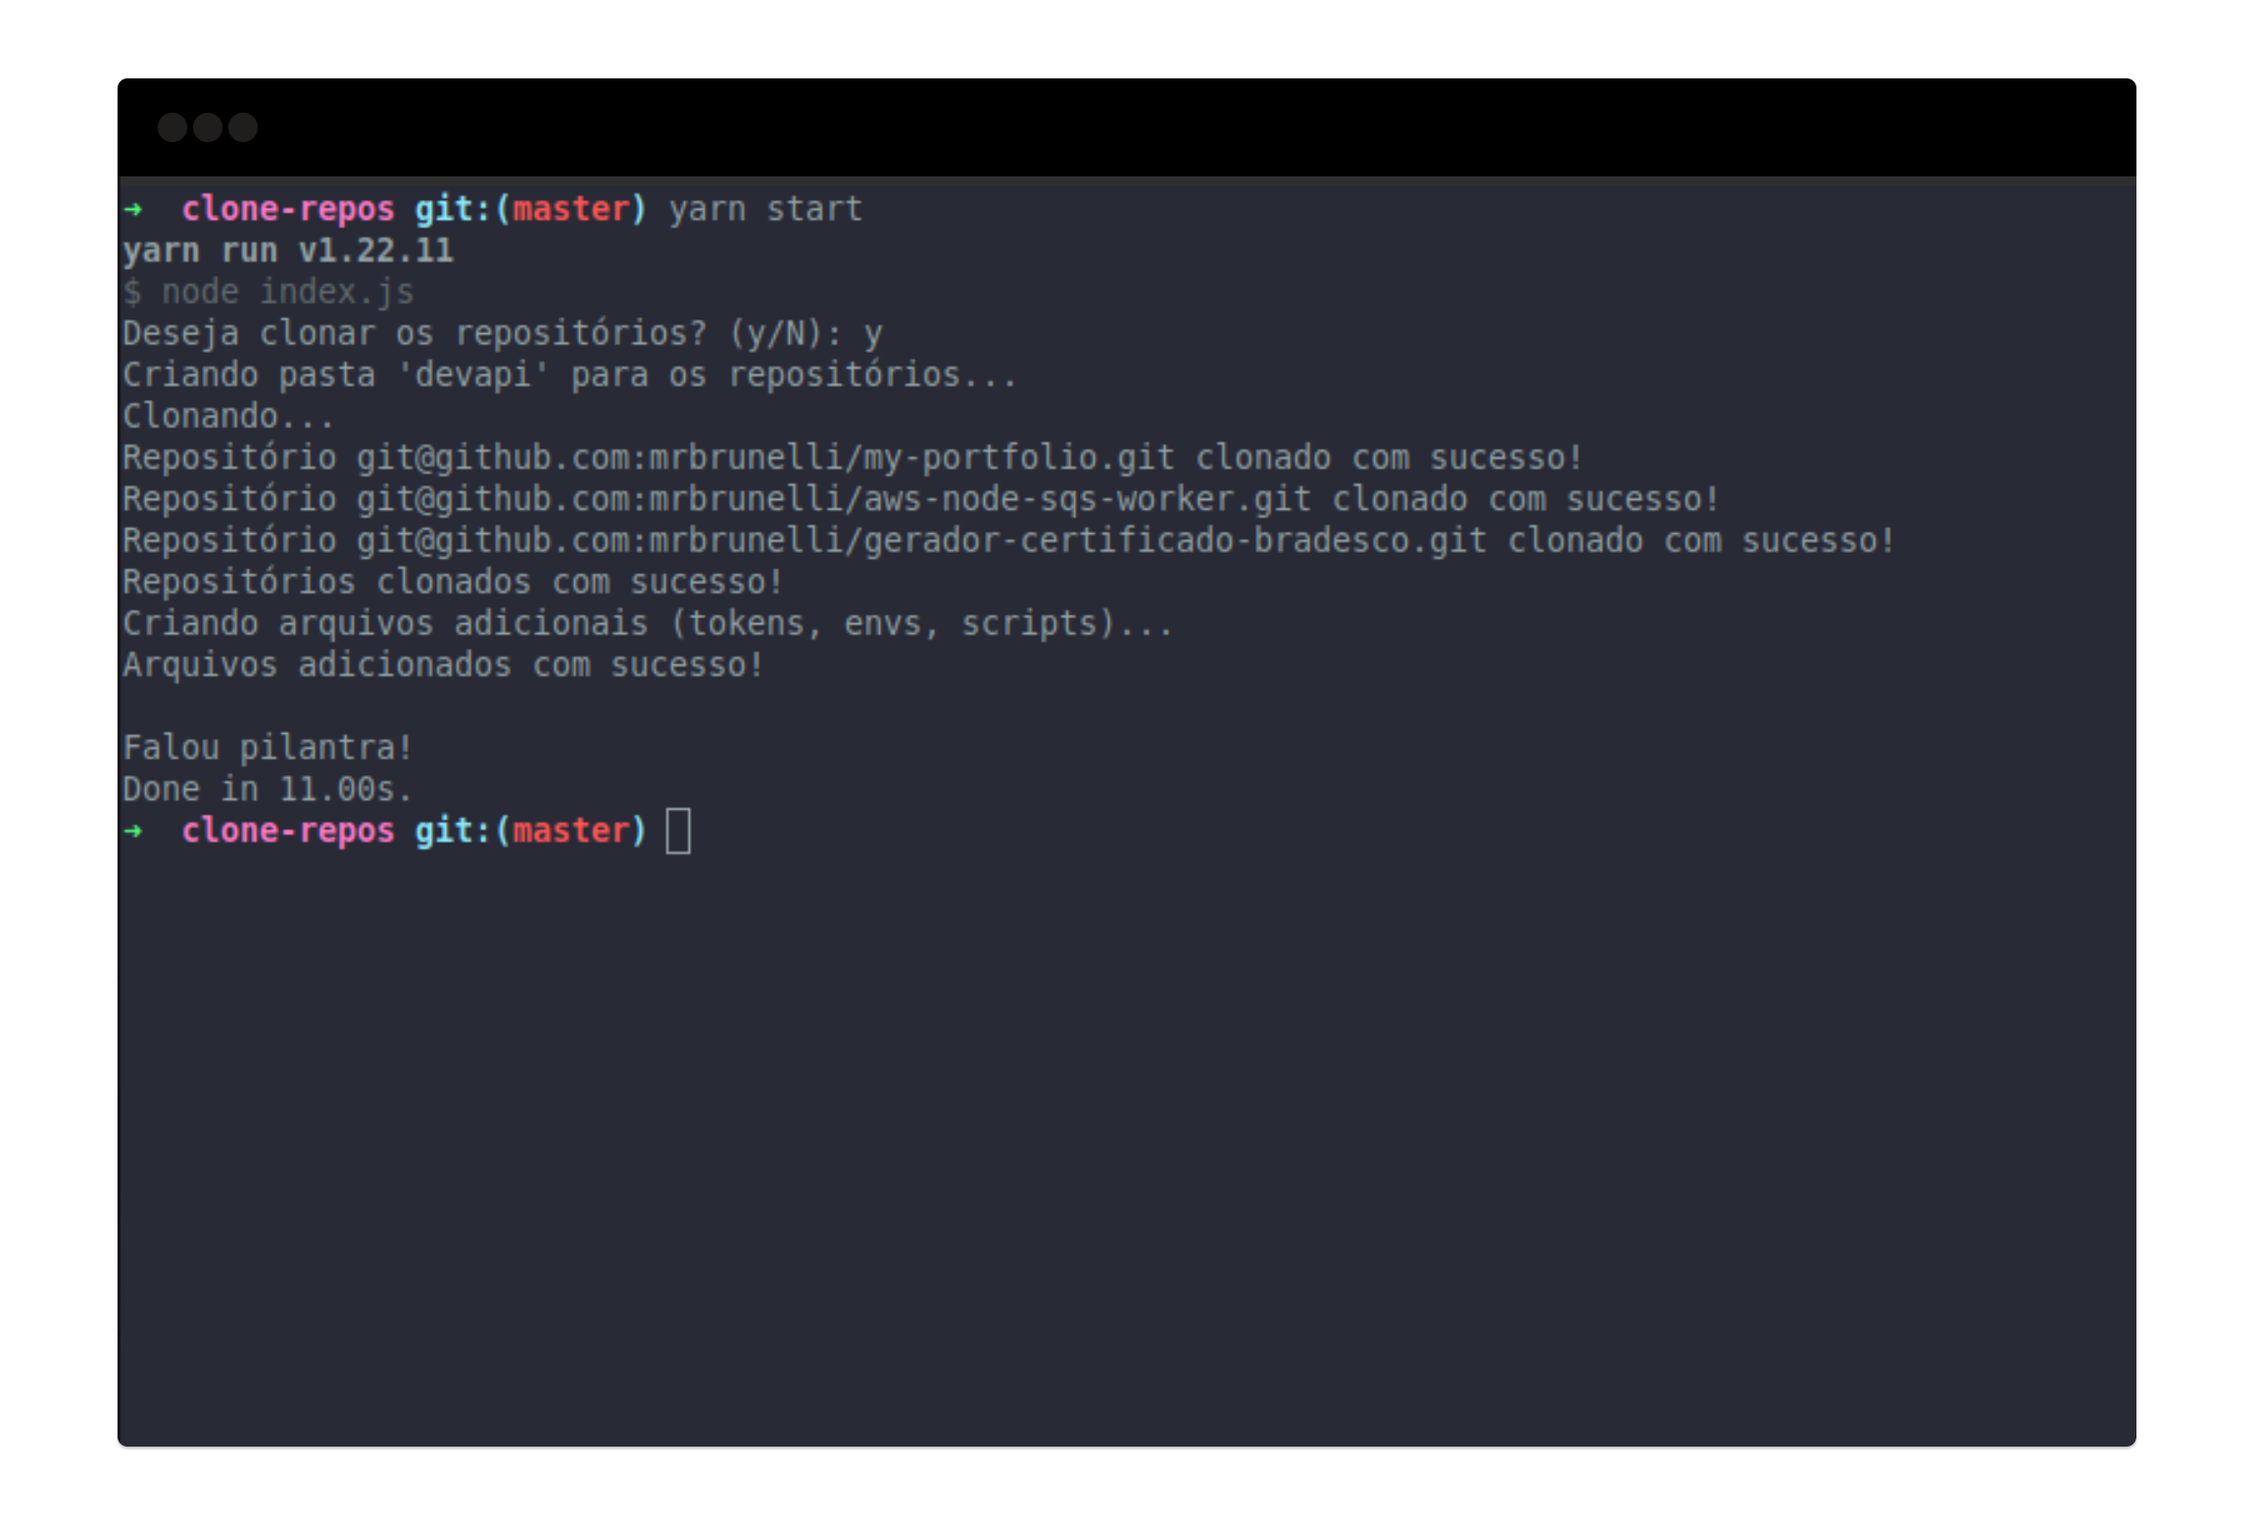
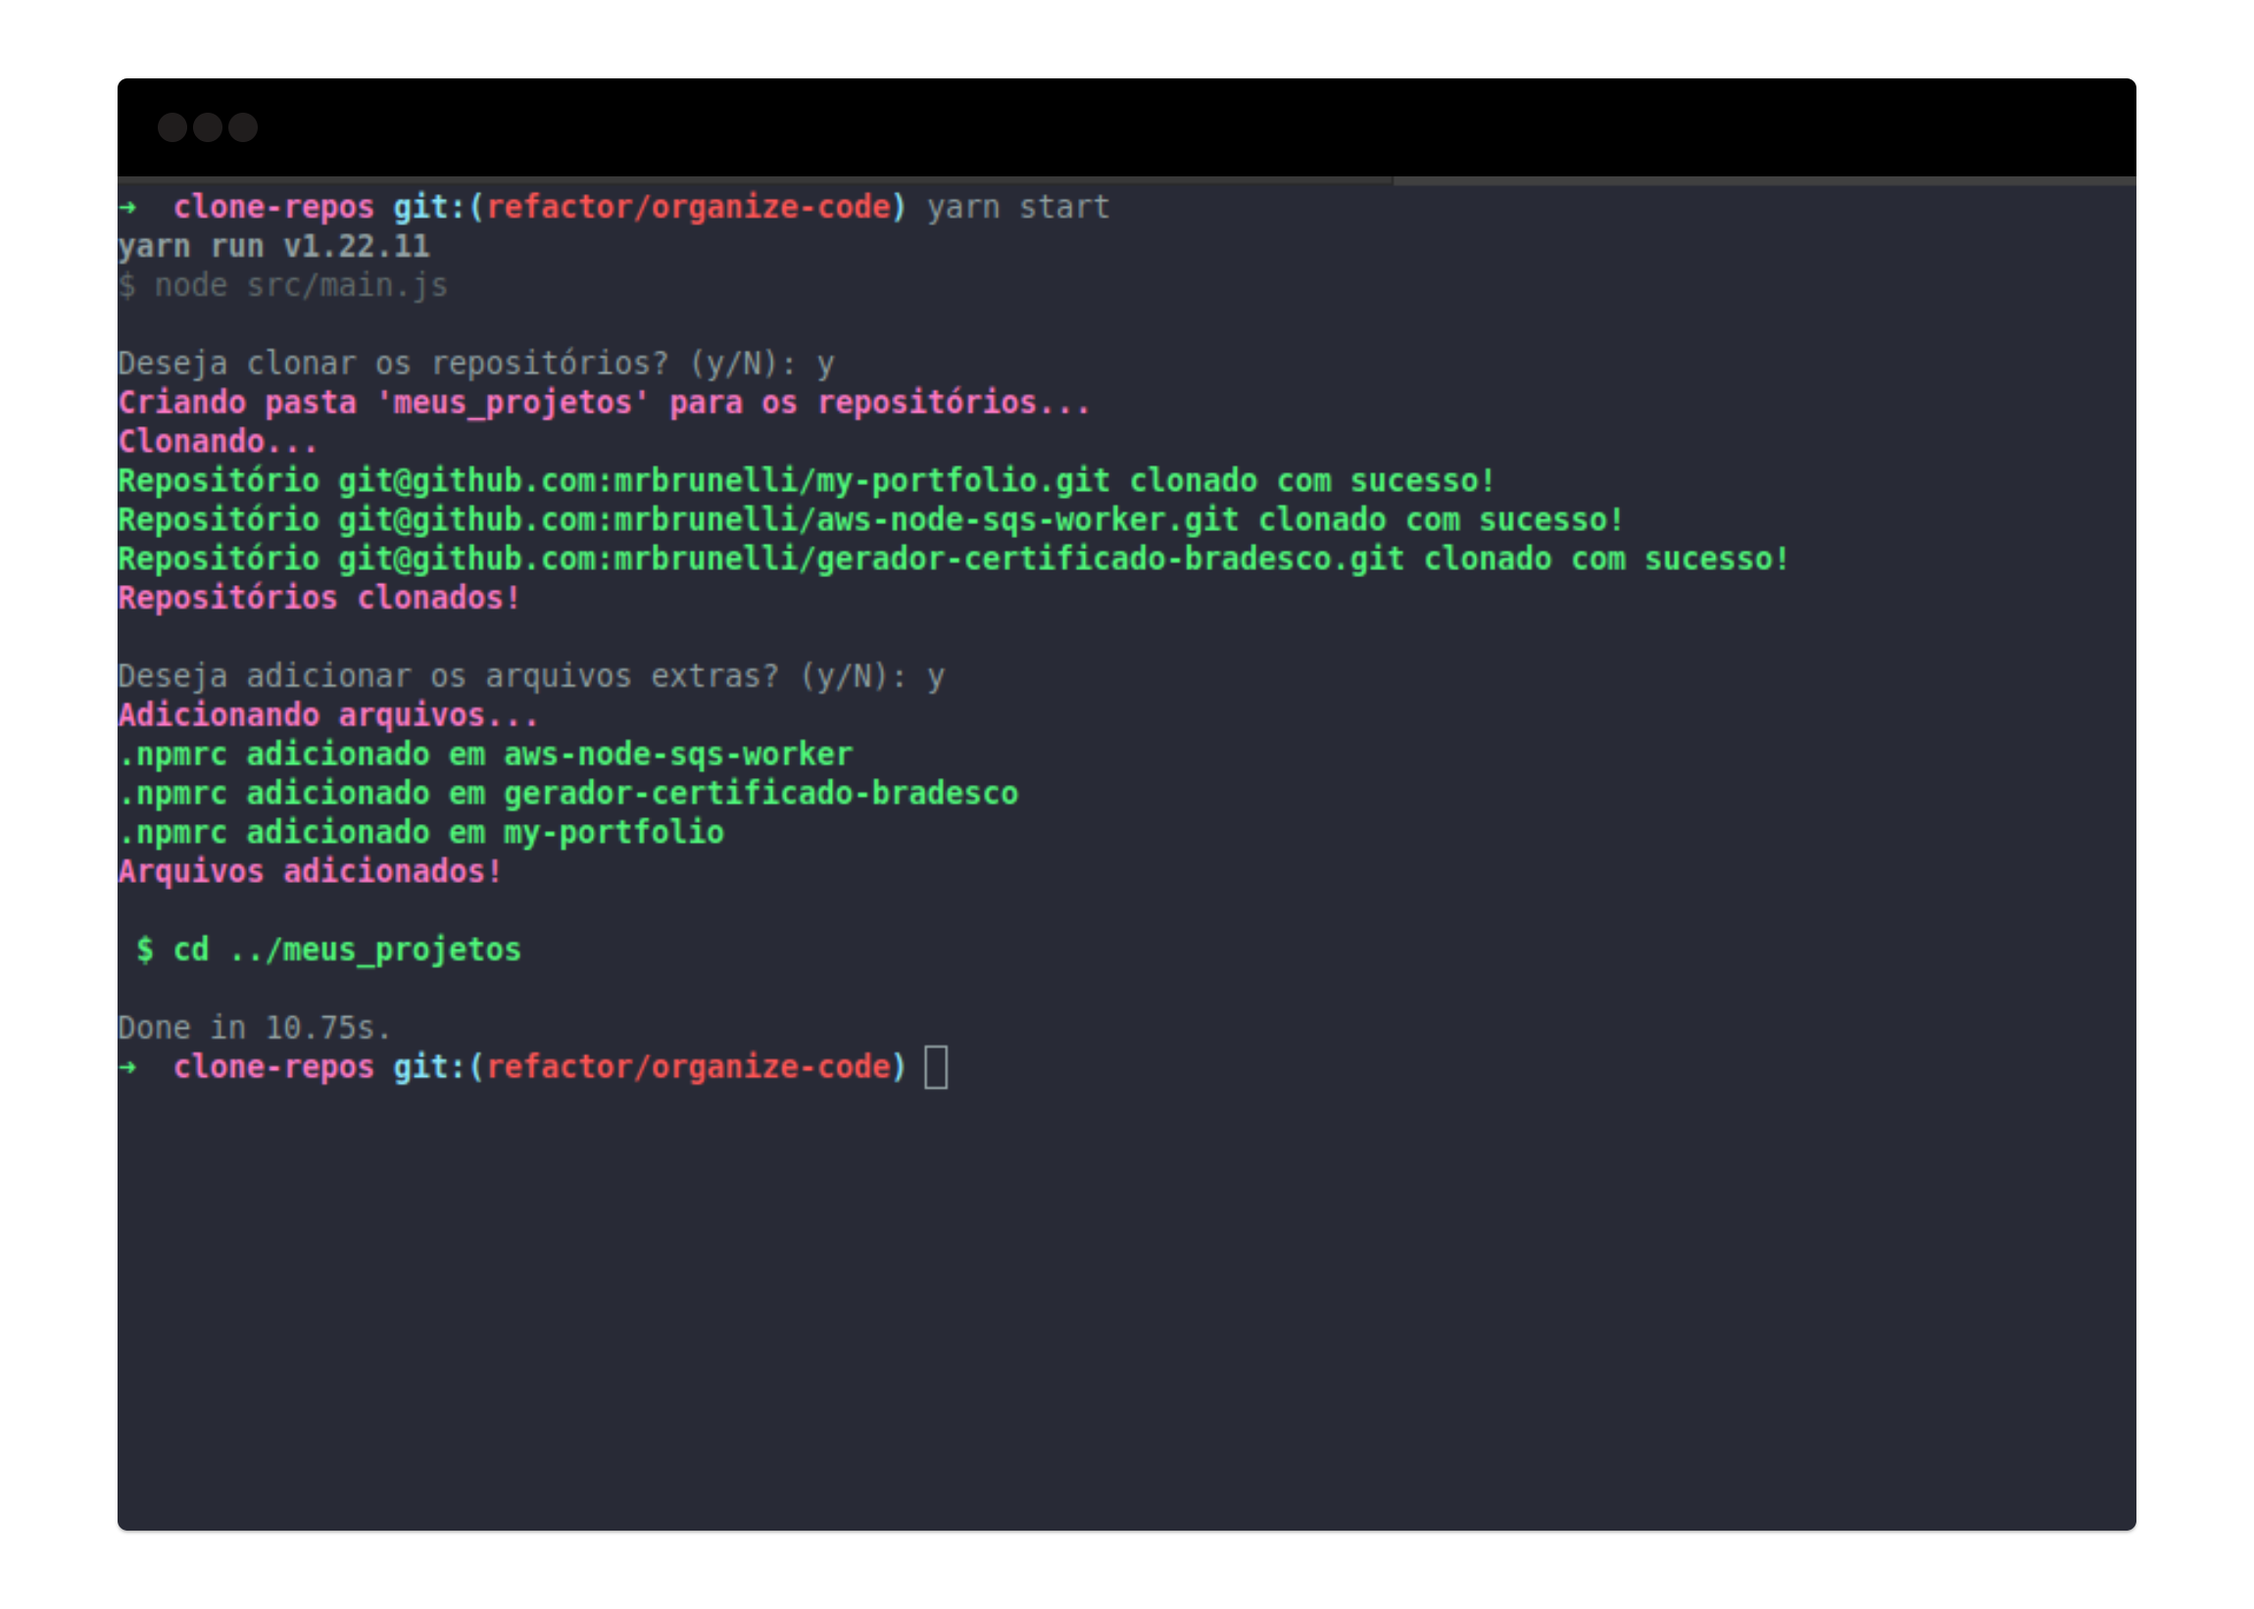
add new screenshot

Changed region(s): [[0.0309, 0.0308, 0.957, 0.5553], [0.0617, 0.9254, 0.957, 0.9563], [0.0309, 0.5861, 0.4322, 0.6787]]

diff --git a/README.md b/README.md
@@ -1,9 +1,10 @@
-## Node.js script for repositories clone
+## Node.js automation script for repositories clone
 
 ### Example
-Set your repositories url and post clone additional files
+Set your repositories url and extra files to add after clone
 ```json
 {
+  "folder_name": "meus_projetos",
   "repositories_url": [
     "git@github.com:mrbrunelli/my-portfolio.git",
     "git@github.com:mrbrunelli/aws-node-sqs-worker.git",
@@ -21,7 +22,7 @@ Set your repositories url and post clone additional files
 ### How execute
 ```sh
 # Needs Node.js v14+
-yarn start || npm install
+yarn start || npm start
 ``` 
 
 ### Screenshot
